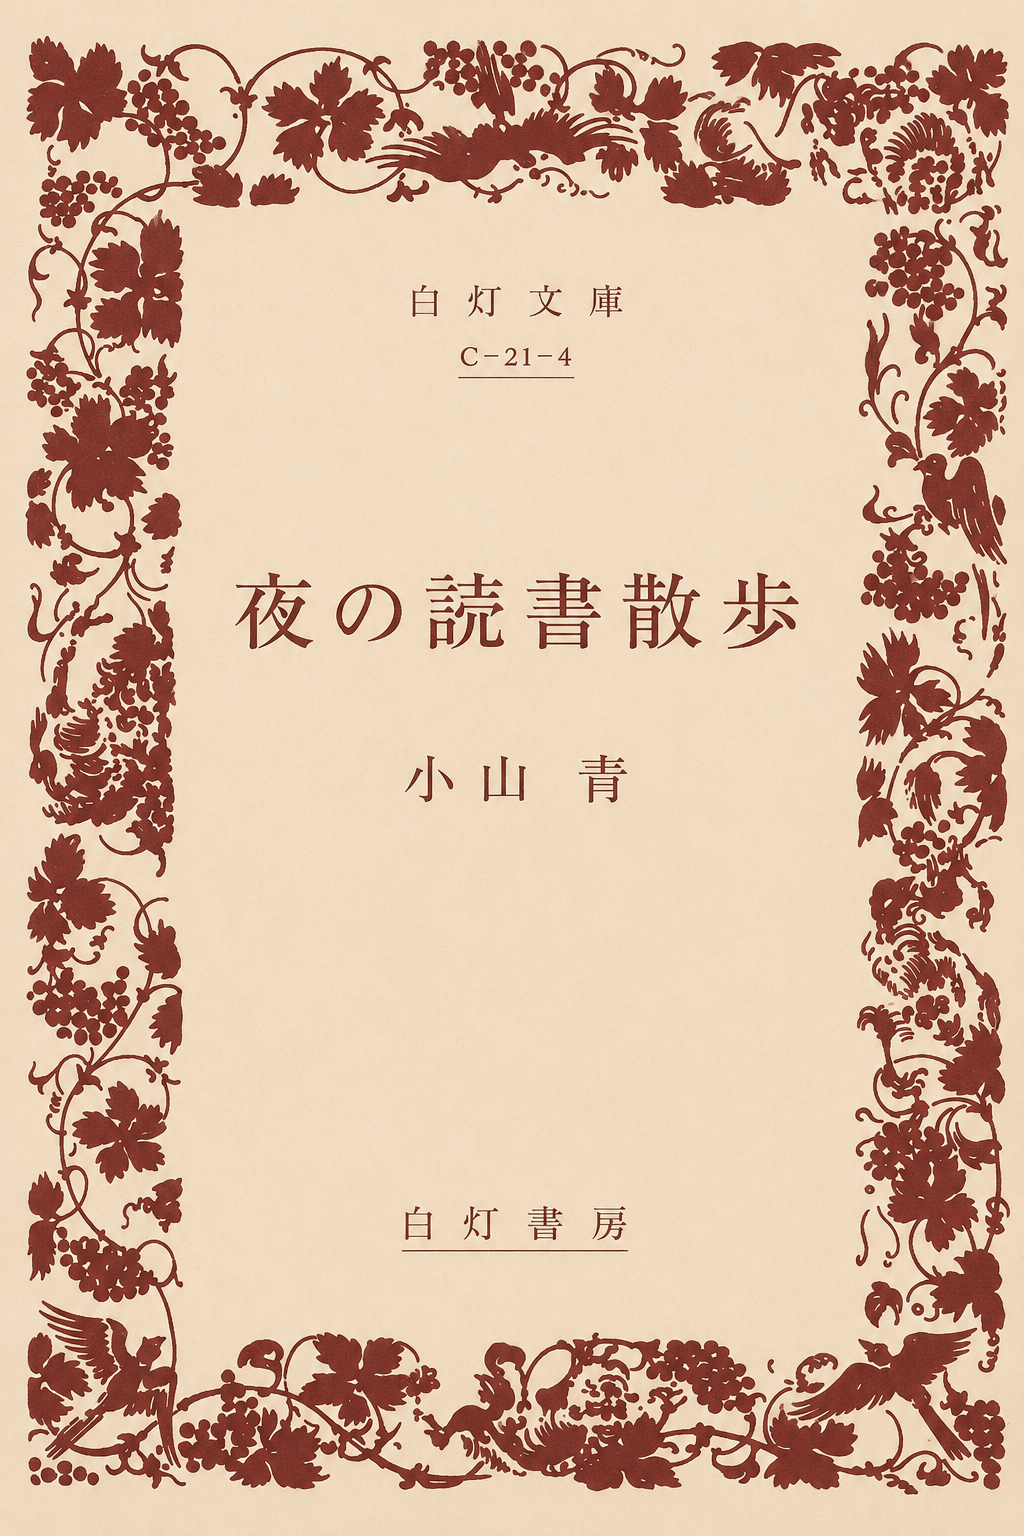
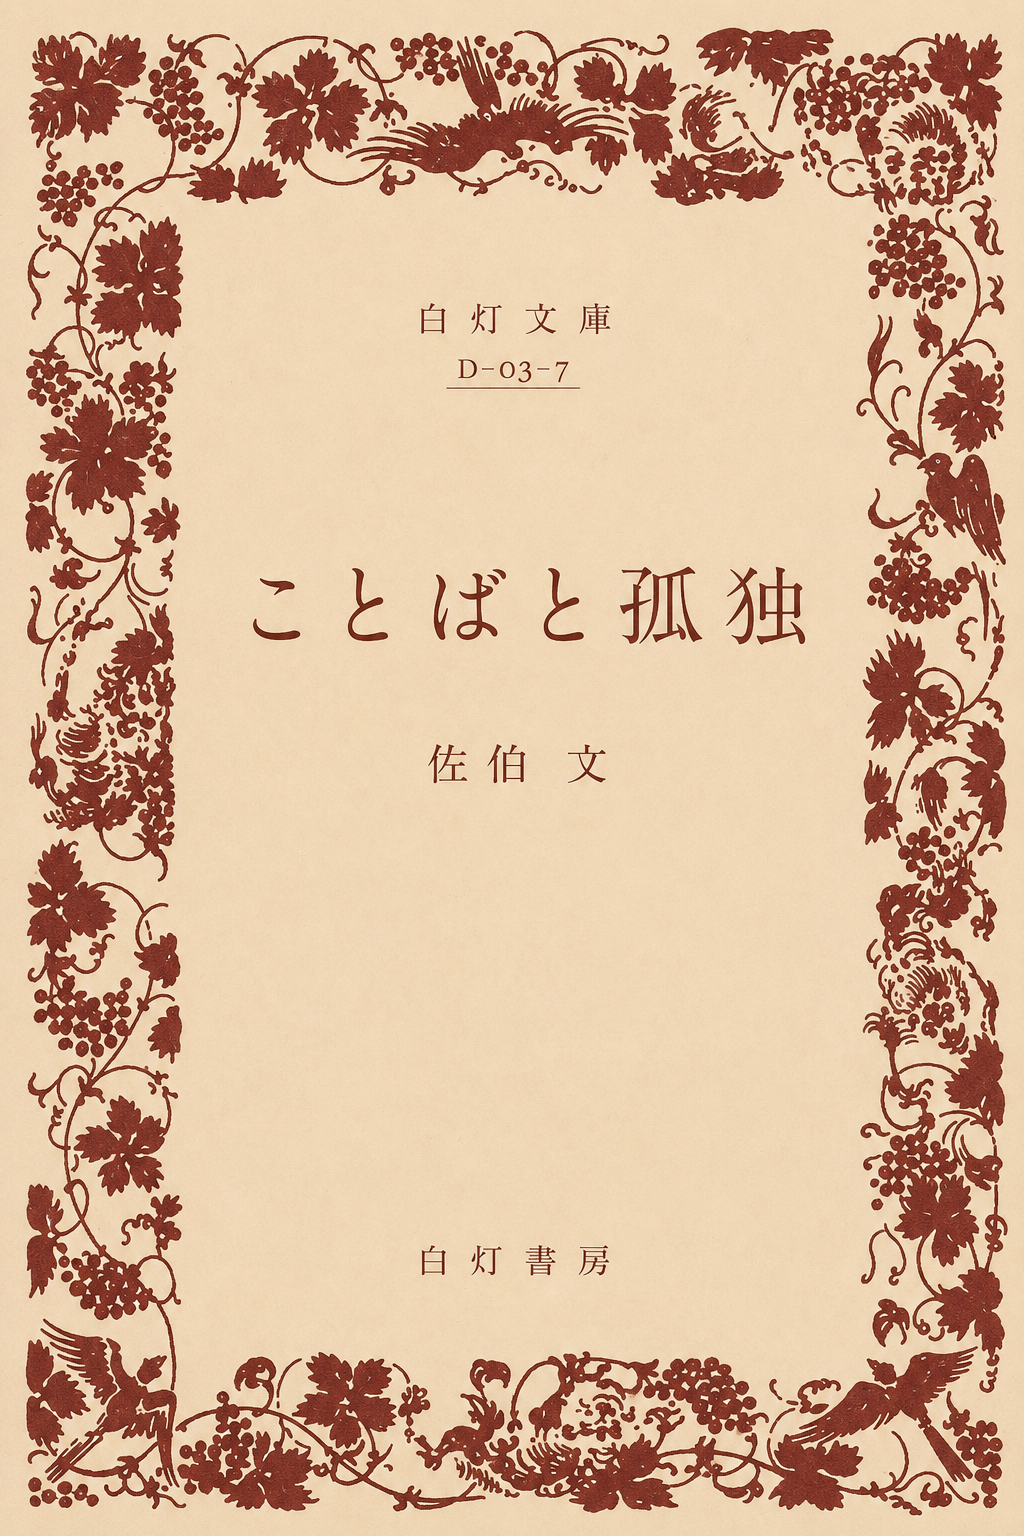
BOOKページの書籍紹介コーナーのレイアウトを全体的に変更

diff --git a/books.html b/books.html
@@ -70,40 +70,135 @@
           オーナー厳選の書籍
         </h2>
         <div class="book-grid">
-          <img src="img/books-shisakunotebiki.png" alt="書籍『思索の手引き』" />
-          <img src="img/books-madobenoakari.png" alt="書籍『窓辺の灯り』" />
-          <img
-            src="img/books-yorunodokusyosanpo.png"
-            alt="書籍『夜の読書散歩』"
-          />
+          <article class="book-card">
+            <img src="img/books-shisakunotebiki.png" alt="思索の手引きの表紙" />
+            <p class="book-category">Philosophy</p>
+            <h3>『思索の手引き』</h3>
+            <p>
+              日々の違和感、読書の断片、記憶の余白を手がかりに、思考の成り立ちを静かに辿る哲学エッセイ。
+            </p>
+            <p class="book-pair">合わせたい珈琲：深煎りブレンド</p>
+          </article>
+
+          <article class="book-card">
+            <img src="img/books-madobenoakari.png" alt="窓辺の灯りの表紙" />
+            <p class="book-category">Literature</p>
+            <h3>『窓辺の灯り』</h3>
+            <p>
+              窓辺に差す光、古い部屋、待つ時間の気配を通して、日常の奥に沈む記憶を掬い上げる短編集。
+            </p>
+            <p class="book-pair">合わせたい珈琲：カフェラテ</p>
+          </article>
+
+          <article class="book-card">
+            <img src="img/books-kotobatokodoku.png" alt="ことばと孤独の表紙" />
+            <p class="book-category">Essay</p>
+            <h3>『ことばと孤独』</h3>
+            <p>
+              言いそびれた言葉、沈黙のあとに残る余白から、孤独と言葉の距離を見つめる一冊。
+            </p>
+            <p class="book-pair">合わせたい珈琲：デカフェコーヒー</p>
+          </article>
+
+          <article class="book-card">
+            <img src="img/books-yohakunotetsugaku.png" alt="余白の哲学の表紙" />
+            <p class="book-category">Philosophy</p>
+            <h3>『余白の哲学』</h3>
+            <p>
+              予定を埋めない時間、返事を急がない関係、何もしない午後に宿る自由をめぐる哲学的随筆。
+            </p>
+            <p class="book-pair">合わせたい珈琲：本日の深煎り珈琲</p>
+          </article>
+
+          <article class="book-card">
+            <img
+              src="img/books-gogonodokusyoshitsu.png"
+              alt="午後の読書室の表紙"
+            />
+            <p class="book-category">Literature</p>
+            <h3>『午後の読書室』</h3>
+            <p>
+              古い読書室を訪れる人々の記憶が、一冊の本を介してゆるやかに重なり合う連作掌編。
+            </p>
+            <p class="book-pair">合わせたい珈琲：カフェラテ</p>
+          </article>
+
+          <article class="book-card">
+            <img src="img/books-kotobanohi.png" alt="ことばの灯の表紙" />
+            <p class="book-category">Literary Essay</p>
+            <h3>『ことばの灯』</h3>
+            <p>
+              詩、手紙、古いノートに残された言葉を辿り、忘れかけていた感情に静かな灯をともす文学エッセイ。
+            </p>
+            <p class="book-pair">合わせたい珈琲：綴ルブレンド</p>
+          </article>
+
+          <article class="book-card">
+            <img src="img/books-hitorinogogo.png" alt="ひとりの午後の表紙" />
+            <p class="book-category">Essay</p>
+            <h3>『ひとりの午後』</h3>
+            <p>
+              喫茶店、書店、川沿いの道。午後の断片を通して、ひとりで在ることの輪郭を描く随筆集。
+            </p>
+            <p class="book-pair">合わせたい珈琲：デカフェコーヒー</p>
+          </article>
+
+          <article class="book-card">
+            <img src="img/books-amaotonosyosai.png" alt="雨音の書斎の表紙" />
+            <p class="book-category">Essay</p>
+            <h3>『雨音の書斎』</h3>
+            <p>
+              雨の日にだけ立ち上がる部屋、本棚、読書の記憶をめぐり、静けさの質感を丁寧に描く読書随筆。
+            </p>
+            <p class="book-pair">合わせたい珈琲：カフェオレ</p>
+          </article>
+
+          <article class="book-card">
+            <img src="img/books-kohitotinmoku.png" alt="珈琲と沈黙の表紙" />
+            <p class="book-category">Coffee Essay</p>
+            <h3>『珈琲と沈黙』</h3>
+            <p>
+              カップの音、湯気、店内に流れる沈黙を通して、言葉になる以前の思考を見つめる喫茶随筆。
+            </p>
+            <p class="book-pair">合わせたい珈琲：本日の深煎り珈琲</p>
+          </article>
+
+          <article class="book-card">
+            <img src="img/books-nemurenushisaku.png" alt="眠れぬ思索の表紙" />
+            <p class="book-category">Philosophy</p>
+            <h3>『眠れぬ思索』</h3>
+            <p>
+              眠れない夜に浮かぶ不安、記憶、未完の問いを、答えに急がず朝へ引き渡す哲学的エッセイ。
+            </p>
+            <p class="book-pair">合わせたい珈琲：季節の珈琲</p>
+          </article>
+
+          <article class="book-card">
+            <img src="img/books-shizukanataiwa.png" alt="静かな対話の表紙" />
+            <p class="book-category">Dialogue</p>
+            <h3>『静かな対話』</h3>
+            <p>
+              説得ではなく傾聴から始まる対話のあり方を、沈黙と余白の視点から考察する一冊。
+            </p>
+            <p class="book-pair">合わせたい珈琲：カフェラテ</p>
+          </article>
+
+          <article class="book-card">
+            <img
+              src="img/books-kodokunotezawari.png"
+              alt="孤独の手触りの表紙"
+            />
+            <p class="book-category">Essay</p>
+            <h3>『孤独の手触り』</h3>
+            <p>
+              部屋、椅子、手帳、読後の沈黙をめぐり、孤独を寂しさではなく感受性として捉え直す内省的随筆。
+            </p>
+            <p class="book-pair">合わせたい珈琲：水出しアイスコーヒー</p>
+          </article>
         </div>
         <p style="text-align: center">
           <a href="#" class="btn btn-sm">書籍一覧を見る</a>
         </p>
-
-        <!-- おすすめセット提案 -->
-        <h2
-          style="
-            font-family: var(--font-heading);
-            font-size: 1.3rem;
-            margin: 3rem 0 1.5rem;
-          "
-        >
-          おすすめセット提案
-        </h2>
-        <div class="pairing">
-          <img src="img/books-kotobatokodoku.png" alt="書籍『ことばと孤独』" />
-          <span class="x">×</span>
-          <div>
-            <p style="font-family: var(--font-heading); font-size: 1.1rem">
-              「この本ならこのコーヒー」
-            </p>
-            <p style="font-size: 0.9rem; color: var(--color-sub)">
-              深煎りブレンド
-            </p>
-          </div>
-          <a href="coffee.html" class="btn btn-sm">Coffeeへ</a>
-        </div>
       </section>
     </main>
 

diff --git a/css/style.css b/css/style.css
@@ -638,43 +638,45 @@ span.logo-mark {
 .book-grid {
   display: grid;
   grid-template-columns: repeat(3, 1fr);
-  gap: 1.5rem;
+  gap: 2rem;
+}
+
+.book-card {
+  padding: 1.5rem;
+  border: 1px solid var(--color-neutral);
+  /* background: #fffaf2; */
+}
+
+.book-card img {
+  width: 100%;
+  aspect-ratio: 3 / 4;
+  object-fit: cover;
   margin-bottom: 1.5rem;
 }
-.book-grid .placeholder {
-  aspect-ratio: 3 / 4;
-}
-.pairing {
-  display: flex;
-  align-items: center;
-  justify-content: center;
-  gap: 1.5rem;
-  flex-wrap: wrap;
-  padding: 2.5rem;
-  border: 1px solid var(--color-neutral);
-  background: #fff;
-  margin-block: 2rem;
-}
-.pairing img {
-  width: 120px;
-  aspect-ratio: 3 / 4;
-}
-.pairing .x {
-  font-size: 1.5rem;
+
+.book-category {
+  margin-bottom: 0.5rem;
+  font-family: var(--font-en-heading);
+  font-size: 0.8rem;
   color: var(--color-accent);
+  letter-spacing: 0.12em;
 }
-.comment {
-  display: flex;
-  gap: 1rem;
-  padding: 1.5rem 0;
-  border-bottom: 1px solid var(--color-neutral);
+
+.book-card h3 {
+  margin-bottom: 0.75rem;
+  font-size: 1.25rem;
+  line-height: 1.5;
 }
-.comment .avatar {
-  width: 48px;
-  height: 48px;
-  border-radius: 50%;
-  background: var(--color-neutral);
-  flex-shrink: 0;
+
+.book-card p {
+  line-height: 1.8;
+  font-size: 0.8rem;
+}
+
+.book-pair {
+  margin-top: 1rem;
+  color: var(--color-sub);
+  font-size: 0.85rem;
 }
 
 /* --- Event --- */
@@ -944,7 +946,7 @@ span.logo-mark {
     grid-template-columns: repeat(2, 1fr);
   }
   .book-grid {
-    grid-template-columns: repeat(3, 1fr);
+    grid-template-columns: 1fr;
   }
   .menu-item {
     grid-template-columns: 80px 1fr;
@@ -980,6 +982,12 @@ span.logo-mark {
 
   .menu-item img {
     max-width: 100%;
+  }
+
+  /* BOOKSページの書籍紹介のサイズ修正  --------- */
+  .book-card img {
+    max-width: 260px;
+    margin-inline: auto;
   }
 }
 

diff --git a/notes.md b/notes.md
@@ -39,6 +39,7 @@
 - [×] スマホ・タブレット表示時のTOPページの中段カードのCTAボタンのレイアウト崩れを整える（done 7/3）
 - [×] BOOKページのサブタイトルの内容を修正（done 7/3）
 - [×] BOOKページにリード文を追加（done 7/3）
+- [×] BOOKページの書籍紹介コーナーのレイアウトを全体的に変更（done 7/3）
 
 # TOPページの下部「営業情報の帯」を削除
 
@@ -248,3 +249,14 @@
 # BOOKページにリード文を追加
 
 - 併せて、リード文をデバイスサイズに合ったフォントサイズに修正(レスポンシブ対応)
+
+# BOOKページの書籍紹介コーナーのレイアウトを全体的に変更
+
+- 「実生活でも簡単に本の紹介の差し替えやアップロードができる」実装を設計
+- → 3\*4のカードギャラリーに再設計
+- → 画像を計9点追加
+- → 画像のファイルサイズを圧縮
+- 架空の出版社を想定: 白灯文庫、群青古典新訳文庫、薄明文庫、白帆書房、朧月書房、風信社書房
+- 各書籍の紹介の中に「合わせたい珈琲」を記載している
+- → 重複するので、「おすすめセット提案」は丸々削除
+- 書籍紹介のカードの内部にジャンル、題名、一言紹介文、合わせたい珈琲を配置
